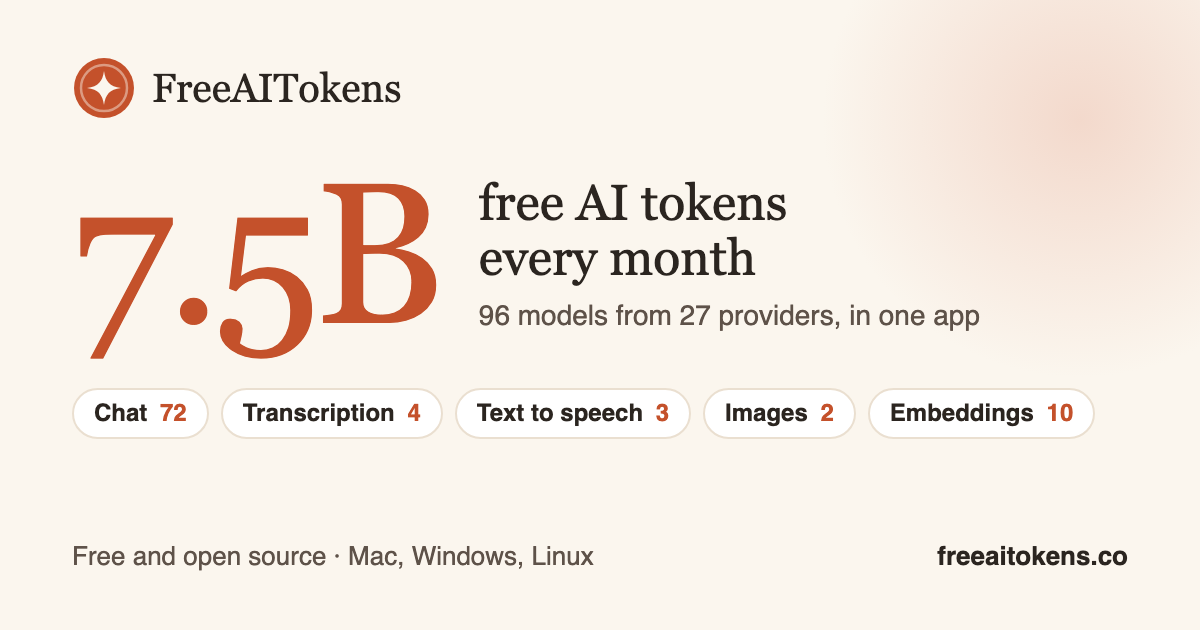
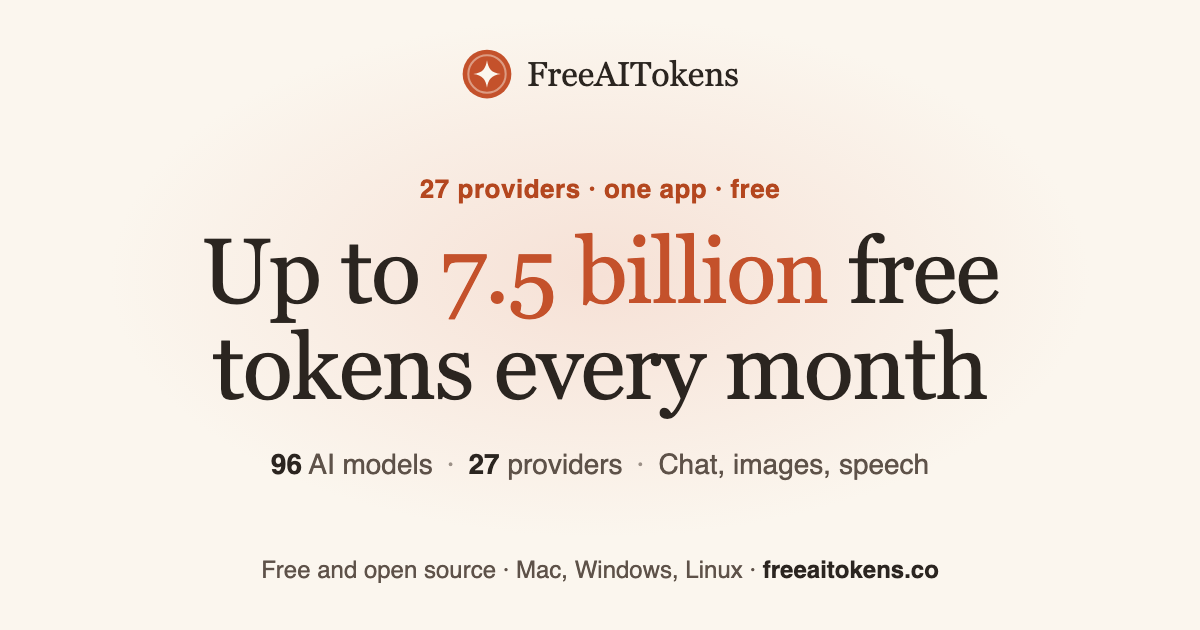
feat(site): link previews in the hero's words, with a 2:1 card for X

diff --git a/test/site.test.ts b/test/site.test.ts
@@ -276,19 +276,23 @@ test('home headline names the monthly tokens in words, then one row of model and
   assert.match(es, /class="tool fam" href="\/es\/models"/);
 });
 
-test('every page carries link-preview tags pointing at the 1200x630 card', () => {
+test('every page carries link-preview tags pointing at the 1200x630 card, and X at its 2:1 card', () => {
   const out = mkdtempSync(join(tmpdir(), 'site-og-'));
   build(out);
   for (const f of ['index.html', join('es', 'index.html'), 'models.html']) {
     const html = readFileSync(join(out, f), 'utf8');
     assert.match(html, /<meta property="og:image" content="https:\/\/[^"]+\/og\.png">/, f);
     assert.match(html, /<meta name="twitter:card" content="summary_large_image">/, f);
+    assert.match(html, /<meta name="twitter:image" content="https:\/\/[^"]+\/x-preview\.png">/, f);
     assert.match(html, /<meta property="og:title" content="[^"{}]+">/, f);
   }
   assert.match(readFileSync(join(out, 'es', 'index.html'), 'utf8'), /og:url" content="https:\/\/[^"]+\/es\/"/);
   const png = readFileSync(join(out, 'og.png'));
   assert.equal(png.readUInt32BE(16), 1200);
   assert.equal(png.readUInt32BE(20), 630);
+  const x = readFileSync(join(out, 'x-preview.png'));
+  assert.equal(x.readUInt32BE(16), 1200);
+  assert.equal(x.readUInt32BE(20), 600, "X's large card is 2:1");
 });
 
 test('mobile apps are shown as coming soon on the home and download pages in every language', () => {
